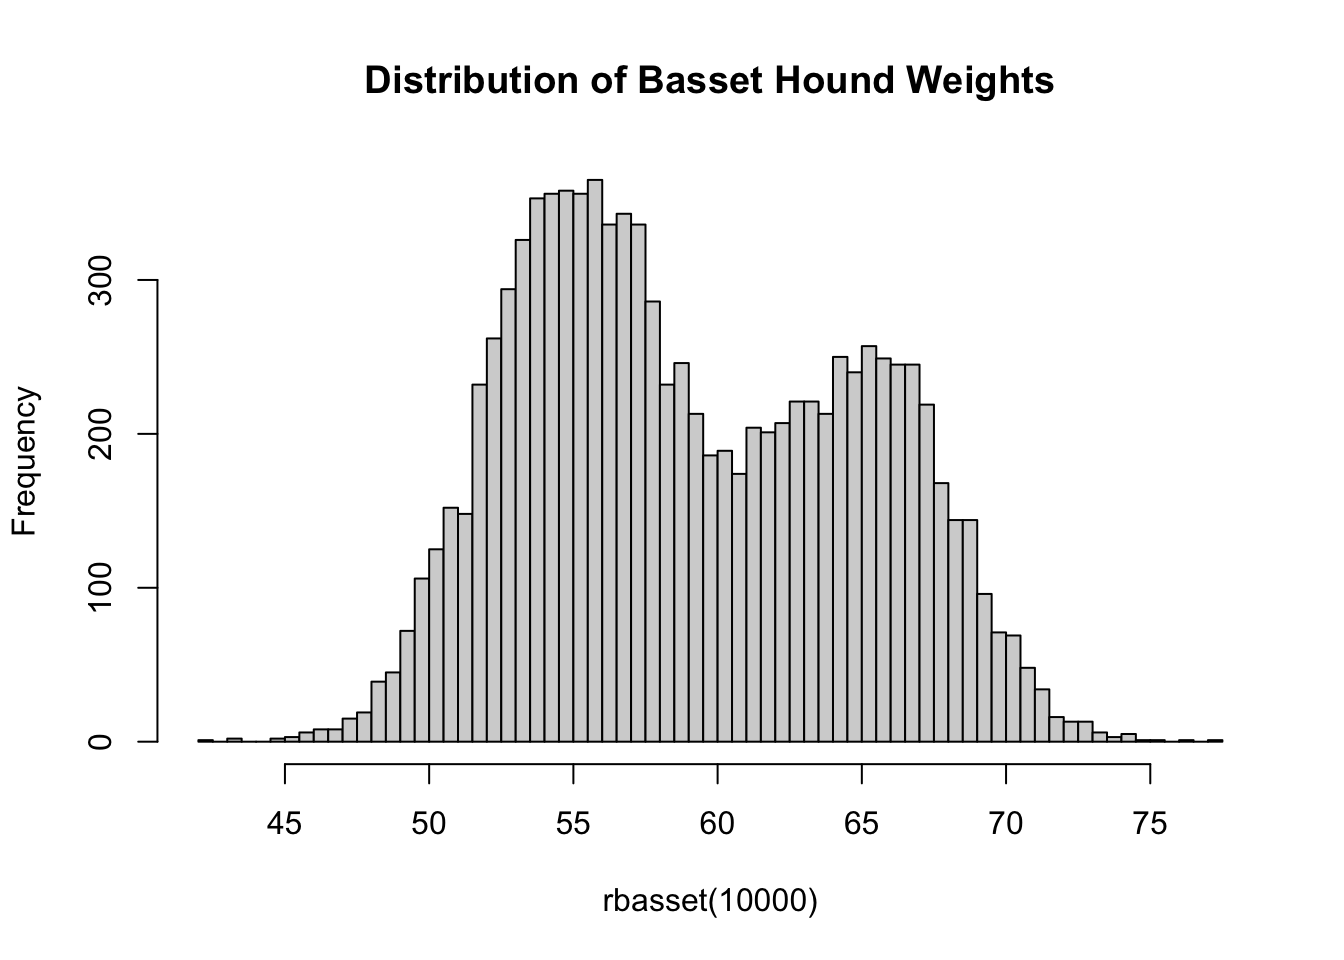
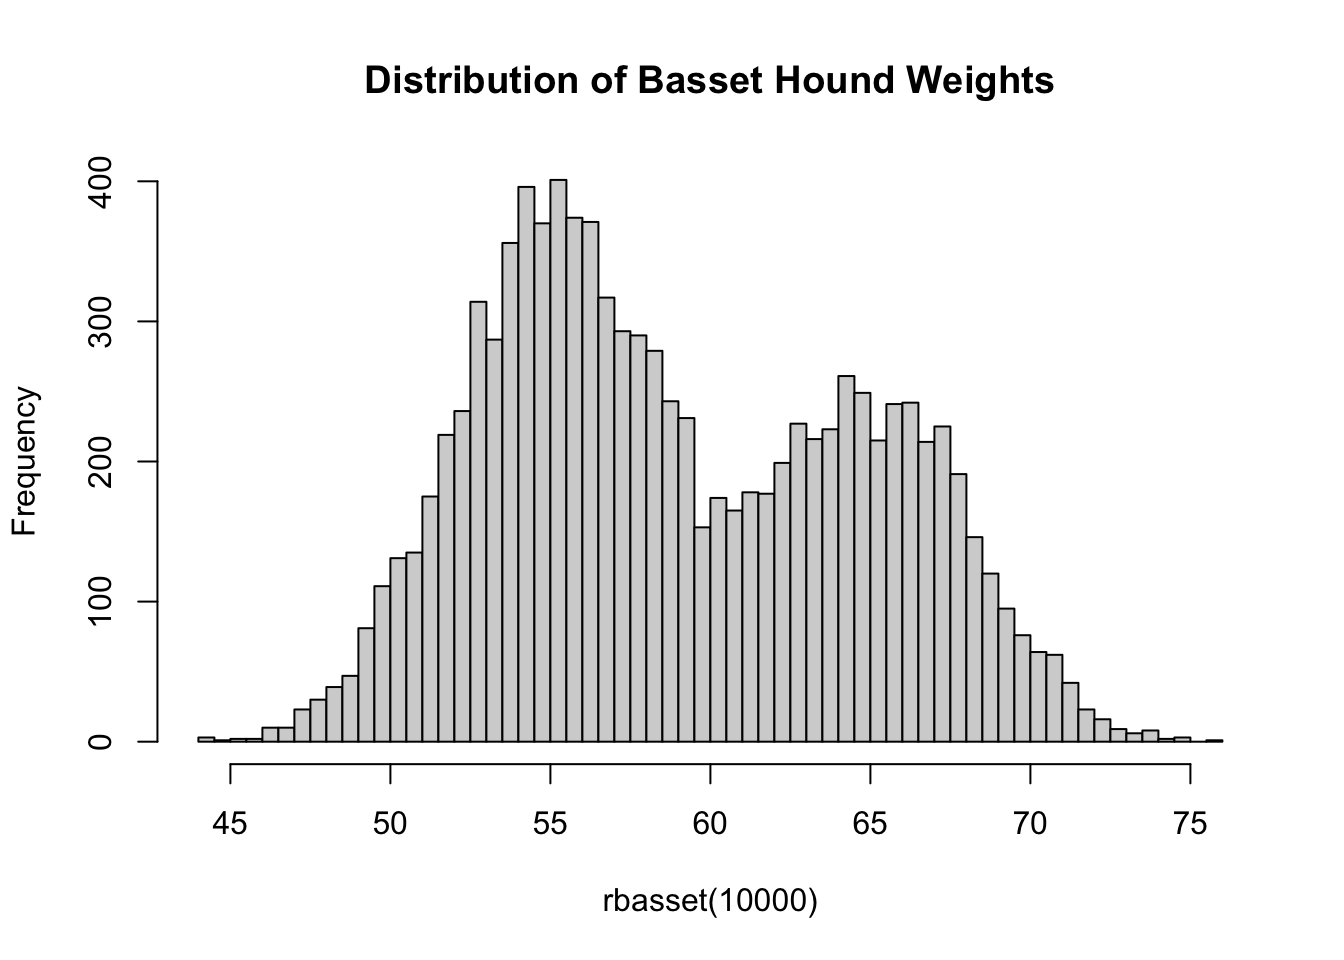
Fix link to test X file

diff --git a/docs/notes/notes06.html b/docs/notes/notes06.html
@@ -194,6 +194,12 @@ window.Quarto = {
   <li><a href="#inference-from-a-mixture-distribution" id="toc-inference-from-a-mixture-distribution" class="nav-link" data-scroll-target="#inference-from-a-mixture-distribution">Inference from a Mixture Distribution</a></li>
   </ul></li>
   <li><a href="#building-generative-classifiers" id="toc-building-generative-classifiers" class="nav-link" data-scroll-target="#building-generative-classifiers">Building Generative Classifiers</a></li>
+  <li><a href="#named-generative-classifiers" id="toc-named-generative-classifiers" class="nav-link" data-scroll-target="#named-generative-classifiers">Named Generative Classifiers</a>
+  <ul class="collapse">
+  <li><a href="#naive-bayes" id="toc-naive-bayes" class="nav-link" data-scroll-target="#naive-bayes">Naive Bayes</a></li>
+  <li><a href="#linear-discriminant-analysis" id="toc-linear-discriminant-analysis" class="nav-link" data-scroll-target="#linear-discriminant-analysis">Linear Discriminant Analysis,</a></li>
+  </ul></li>
+  <li><a href="#a-non-standard-example" id="toc-a-non-standard-example" class="nav-link" data-scroll-target="#a-non-standard-example">A Non-Standard Example</a></li>
   </ul>
 <div class="toc-actions"><ul><li><a href="https://github.com/michaelweylandt/STA9890/edit/main/notes/notes06.qmd" class="toc-action"><i class="bi bi-github"></i>Edit this page</a></li><li><a href="https://github.com/michaelweylandt/STA9890/blob/main/notes/notes06.qmd" class="toc-action"><i class="bi empty"></i>View source</a></li><li><a href="https://github.com/michaelweylandt/STA9890/issues/new" class="toc-action"><i class="bi empty"></i>Report an issue</a></li></ul></div></nav>
     </div>
@@ -219,6 +225,7 @@ window.Quarto = {
 </header>
 
 
+<p><span class="math display">\[\newcommand{\bX}{\mathbf{X}}\newcommand{\bx}{\mathbf{x}}\newcommand{\R}{\mathbb{R}}\newcommand{\P}{\mathbb{P}}\]</span></p>
 <p>This week, we begin our study of classifiers with an analysis of <em>generative</em> classifiers. While many generative classifiers have appeared in the literature, they can essentially all be derived from a standard formula. We will discuss this standard formula first and then turn our attention to specific named instances.</p>
 <section id="mixture-models" class="level2">
 <h2 class="anchored" data-anchor-id="mixture-models">Mixture Models</h2>
@@ -234,7 +241,7 @@ window.Quarto = {
 <span id="cb1-5"><a href="#cb1-5" aria-hidden="true" tabindex="-1"></a>}</span>
 <span id="cb1-6"><a href="#cb1-6" aria-hidden="true" tabindex="-1"></a><span class="fu">rbasset</span>(<span class="dv">1</span>)</span></code><button title="Copy to Clipboard" class="code-copy-button"><i class="bi"></i></button></pre></div>
 <div class="cell-output cell-output-stdout">
-<pre><code>[1] 59.69341</code></pre>
+<pre><code>[1] 67.67984</code></pre>
 </div>
 </div>
 <p>If we collect the weights of many basset hounds, we see that the resulting distribution is not normally distributed:</p>
@@ -257,7 +264,7 @@ window.Quarto = {
 <p>Now suppose you are on a walk and you meet a very friendly 62 pound basset hound. You of course want to pet this marvelous dog, but you need to ask the owner’s permission first: in doing so, should you ask “may I pet him?” or “may I pet her?”</p>
 <p>While the basset hound won’t care if you misgender, you recall that you can use <a href="https://en.wikipedia.org/wiki/Bayes%27_theorem"><em>Bayes’ Rule</em></a> to ‘invert’ the mixture distribution. That is, while the mixture distribution normally goes from sex to weight, Bayes’ rule will let us go from weight back to sex.</p>
 <p>Specifically, in this case, Bayes’ rule tells us:</p>
-<p>[(|) = ]</p>
+<p><span class="math display">\[\P(\text{Female}|\text{Weight=62}) = \frac{\P(\text{Weight=62}|\text{Female})\P(\text{Female})}{\P(\text{Weight=62}|\text{Female})\P(\text{Female}+\P(\text{Weight=62}|\text{Male})\P(\text{Male}))}\]</span></p>
 <p>The math here is a bit nasty numerically, but we can do it in <code>R</code> quite simply:</p>
 <div class="cell">
 <div class="sourceCode cell-code" id="cb4"><pre class="sourceCode r code-with-copy"><code class="sourceCode r"><span id="cb4-1"><a href="#cb4-1" aria-hidden="true" tabindex="-1"></a>p_female <span class="ot">&lt;-</span> <span class="fl">0.6</span></span>
@@ -283,15 +290,51 @@ window.Quarto = {
 <p>Let’s formalize our approach for a two-class classifier though the extension to multi-class is simple enough. Given a training set</p>
 <p><span class="math display">\[\mathcal{D}_{\text{Train}} = \{(\bx_1, y_1), (\bx_2, y_2), \dots, (\bx_n, y_n)\}\]</span></p>
 <p>we assume <span class="math inline">\(\bX\)</span> follows a two-component mixture where <span class="math inline">\(Y\)</span> is the mixing variable:</p>
-<p>[| Y=0 _0 | _1]</p>
+<p><span class="math display">\[\bX | Y=0 \sim \mathcal{P}_0 \text{ and } \bX | Y=1 \sim \mathcal{P}_1\]</span></p>
 <p>Clearly to fully specify this distribution, we need three things:</p>
 <ul>
 <li>To know the distribution of <span class="math inline">\(Y\)</span></li>
 <li>To know the distribution <span class="math inline">\(\mathcal{P}_0\)</span></li>
 <li>To know the distribution <span class="math inline">\(\mathcal{P}_1\)</span></li>
 </ul>
-<p>The distribution of <span class="math inline">\(Y\)</span> is relatively straightforward: since it only takes values <span class="math inline">\(\{0, 1\}\)</span> it <em>must</em> have a Bernoulli distribution and hence the only thing we need to estimate is the probability, <span class="math inline">\(p\)</span>, that <span class="math inline">\(Y=1\)</span>. The simplest approach to estimating the Bernoulli probability is to simply take the empirical probability from the training data set, <em>i.e.</em>, the fraction of observations where <span class="math inline">\(Y=1\)</span>, but this can also be estimated using knowledge of a broader data set or a different population than the training data. For instance, if a data set is known to overindex on <span class="math inline">\(Y=1\)</span>, <em>e.g.</em>, because it contains patients who self-reported some disease, it may be more appropriate to estimate <span class="math inline">\(p\)</span> based on the population-wide prevalance of the disease. These concerns are typically rather problem specific.</p>
-<p>Estimation of <span class="math inline">\(\mathcal{P}_0, \mathcal{P}_1\)</span> may be more difficult. If the training data is <em>extremely</em> large,</p>
+<p>The distribution of <span class="math inline">\(Y\)</span> is relatively straightforward: since it only takes values <span class="math inline">\(\{0, 1\}\)</span> it <em>must</em> have a Bernoulli distribution and hence the only thing we need to estimate is the probability, <span class="math inline">\(\pi_1\)</span>, that <span class="math inline">\(Y=1\)</span>. The simplest approach to estimating the Bernoulli probability is to simply take the empirical probability from the training data set, <em>i.e.</em>, the fraction of observations where <span class="math inline">\(Y=1\)</span>, but this can also be estimated using knowledge of a broader data set or a different population than the training data. For instance, if a data set is known to overindex on <span class="math inline">\(Y=1\)</span>, <em>e.g.</em>, because it contains patients who self-reported some disease, it may be more appropriate to estimate <span class="math inline">\(p\)</span> based on the population-wide prevalance of the disease. These concerns are typically rather problem specific.</p>
+<p>Estimation of <span class="math inline">\(\mathcal{P}_0, \mathcal{P}_1\)</span> may be more difficult. If the training data is <em>extremely</em> large, we may use a <em>non-parametric</em> estimator, <em>e.g.</em>, a multivariate histogram, but in general we will need to use some sort of restrictive (parametric) model. The most commonly used generative classifiers assume some sort of multivariate normal structure, but you can create ‘custom’ classifiers appropriate to specific domains.</p>
+<p>For now, let us assume <span class="math inline">\(\mathcal{P}_{0}, \mathcal{P}_1\)</span> have been estimated and that they have PDFs <span class="math inline">\(p_0(\cdot), p_1(\cdot)\)</span>. Applying Bayes’ rule as before, with prior (baseline) probabilities <span class="math inline">\(\pi_0, \pi_1 = 1-\pi_0\)</span>, we get the following probabilities</p>
+<p><span class="math display">\[\begin{align*}
+\P(Y = 1 | \bx) &amp;= \frac{\P(\bx | Y = 1)\P(Y=1)}{\P(\bx | Y = 0)\P(Y=0)+\P(\bx | Y = 1)\P(Y=1)} \\
+&amp;= \frac{p_1(\bx)\pi_1}{p_0(\bx)\pi_0 + p_1(\bx)\pi_1}
+\end{align*}\]</span></p>
+<p>If we are happy with a <em>probabilistic</em> classifier, we are essentially done. If we want a true binary classifier, <em>i.e.</em>, a <span class="math inline">\(\{0, 1\}\)</span> valued ‘point predictor’, we also need to set a classification threshold, <span class="math inline">\(\overline{p}\)</span>, to obtain:</p>
+<p><span class="math display">\[\delta(\bx) = \begin{cases} 0 &amp; \frac{p_1(\bx)\pi_1}{p_0(\bx)\pi_0 + p_1(\bx)\pi_1} &lt; \overline{p} \\ 1 &amp; \text{ otherwise} \end{cases}\]</span></p>
+<p><span class="math inline">\(\overline{p}\)</span> can be chosen to optimize a relevant performance metric (if you practice good sample splitting hygiene) or via a full decision theoretic analysis, as discussed last week.</p>
+<p>That’s basically it!</p>
+</section>
+<section id="named-generative-classifiers" class="level2">
+<h2 class="anchored" data-anchor-id="named-generative-classifiers">Named Generative Classifiers</h2>
+<p>As mentioned above, the ‘popular’ generative classifiers are essentially defined by specific multivariate normality assumptions on <span class="math inline">\(\mathcal{P}_0, \mathcal{P}_1\)</span>. Let us review these in ascending order of complexity.</p>
+<p>Recall that a multivariate normal distribution is uniquely identified by its <em>mean</em> and <em>(co)variance (matrix)</em>, just like a standard univariate normal distribution. When estimating means, we will simply use the class means for each classifier, though James-Stein time estimators could be used for a (likely imperceptible) improvement. Estimation of variances is a harder task: to estimate the full covariance matrix of <span class="math inline">\(p\)</span> random variables (or a random <span class="math inline">\(p\)</span>-vector), we must estimate:</p>
+<ol type="i">
+<li><span class="math inline">\(p\)</span> (marginal) variances and <span class="math inline">\(\frac{p^2-3p}{2}\)</span> correlations; or</li>
+<li><span class="math inline">\(\binom{p}{2} = \frac{p(p-1)}{2}\)</span> covariances</li>
+</ol>
+<p>Making this even harder, we have to deal with the fact that the “variance of the variance”, <em>i.e.</em>, the kurtosis, is typically quite large. While we do not focus on high-dimensional covariance estimation in these notes, it is quite a rich subject: if you want dig further into it, the <a href="http://www.ledoit.net/honey.pdf">Ledoit-Wolf</a> estimator is a good place to start.</p>
+<section id="naive-bayes" class="level3">
+<h3 class="anchored" data-anchor-id="naive-bayes">Naive Bayes</h3>
+<p>In Naive Bayes, we assume <span class="math inline">\(\mathcal{P}_0, \mathcal{P}_1\)</span> are multivariate normal distributions with no correlation among the features and a common covariance across classes.<a href="#fn2" class="footnote-ref" id="fnref2" role="doc-noteref"><sup>2</sup></a> This <em>significantly</em> simplifies the covariance estimation problem, since we now have all <span class="math inline">\(n\)</span> samples available to estimate only <span class="math inline">\(p\)</span> variances. Our estimates are given as follows:</p>
+<p><span class="math display">\[\hat{\mu}_0 = \frac{1}{|\mathcal{C}_0|} \sum_{i \in \mathcal{C}_0} \bx_i\]</span></p>
+<p>where <span class="math inline">\(\mathcal{C}_0\)</span> is the set of observations from class 0 and</p>
+<p><span class="math display">\[\hat{\mu}_1 = \frac{1}{|\mathcal{C}_1|} \sum_{i \in \mathcal{C}_1} \bx_i.\]</span> The variance estimates are a bit trickier:</p>
+<p><span class="math display">\[\hat{\Sigma}_{ii} = \frac{1}{n}\left(\sum_{j\in\mathcal{C}_0} (x_{ji} - \hat{\mu}_{0i})^2 + \sum_{j\in\mathcal{C}_1} (x_{ji} - \hat{\mu}_{1i})^2\right)\]</span> This looks a bit nasty, but it’s not too hard: we take the standard ‘average squared difference’ estimator of the variance, but instead of using the overall mean, we subtract the estimated mean from the relevant class. Note that here we are only estimating <span class="math inline">\(\Sigma_{ii}\)</span>, the diagonal elements, and not a full matrix <span class="math inline">\(\Sigma\)</span>.</p>
+<p>Naive Bayes classifiers are particularly important to the history of ML as they were used for one of the first and most influential spam filters.</p>
+</section>
+<section id="linear-discriminant-analysis" class="level3">
+<h3 class="anchored" data-anchor-id="linear-discriminant-analysis">Linear Discriminant Analysis,</h3>
+<p>Generalizing a bit, we can relax the assumption that the covariance matrix <span class="math inline">\(\Sigma\)</span> is diagonal and only assume that it is constant across the two classes. Here,</p>
+</section>
+</section>
+<section id="a-non-standard-example" class="level2">
+<h2 class="anchored" data-anchor-id="a-non-standard-example">A Non-Standard Example</h2>
+<p>Suppose we have</p>
 
 
 </section>
@@ -301,6 +344,7 @@ window.Quarto = {
 
 <ol>
 <li id="fn1"><p>Note that a mixture of normals is not <em>always</em> multimodal (<em>e.g.</em>, if the two means are very close together), but a mixture of normals is a common model for multimodal data.<a href="#fnref1" class="footnote-back" role="doc-backlink">↩︎</a></p></li>
+<li id="fn2"><p>Sometimes, we go further and assume the standard deviations of each feature are the same: this assumption is typically not made explicitly as such but is done ‘off-camera’ by pre-standardizing features.)<a href="#fnref2" class="footnote-back" role="doc-backlink">↩︎</a></p></li>
 </ol>
 </section></div></main> <!-- /main -->
 <script id="quarto-html-after-body" type="application/javascript">

diff --git a/docs/competition.html b/docs/competition.html
@@ -261,7 +261,7 @@ Use only Provided Information
 <li><a href="./competition_data/building_details_2018.csv.gz"><code>building_details_2018.csv</code></a>: Details of the relevant properties in 2018</li>
 <li><a href="./competition_data/building_details_2019.csv.gz"><code>building_details_2019.csv</code></a>: Details of the relevant properties in 2019</li>
 <li><a href="./competition_data/assessment_history_train.csv.gz"><code>assessment_history_train.csv</code></a>: A subset of realized assessments from 2015 to 2019, along with some additional useful information</li>
-<li><a href="./competition_data/assessment_history_test.csv"><code>assessment_history_test.csv</code></a>: A subset of realized assessments from 2015 to 2018. <strong>Your task is to predict the 2019 assessments for these properties.</strong></li>
+<li><a href="./competition_data/assessment_history_test.csv.gz"><code>assessment_history_test.csv</code></a>: A subset of realized assessments from 2015 to 2018. <strong>Your task is to predict the 2019 assessments for these properties.</strong></li>
 </ul>
 <p>Let us review these in some detail:</p>
 <div class="cell">
@@ -300,7 +300,7 @@ $ year                &lt;dbl&gt; 2015, 2015, 2015, 2015, 2015, 2015, 2015, 2015
 </div>
 </div>
 <p>Features here are generally self-explanatory with the exception of <code>acct</code>, a unique identifier I have created to identify assessment parcels. You will use this as the “key” to identify your predictions.</p>
-<p>Note that these data are obtained from government records and are likely full of errors and irregularities (<em>e.g.</em>, the <code>year_remodeled</code> column has many zeros); part of your task is to deal with this messiness in building your ML pipeline.</p>
+<p>Note that these data are obtained from government records and are likely full of errors and irregularities (<em>e.g.</em>, the <code>year_remodeled</code> column has many zeros); part of your task is to deal with this messiness in building your ML pipeline. I will not further clean or prepare this data for you.</p>
 <p>The training file looks like:</p>
 <div class="cell">
 <div class="sourceCode cell-code" id="cb3"><pre class="sourceCode r code-with-copy"><code class="sourceCode r"><span id="cb3-1"><a href="#cb3-1" aria-hidden="true" tabindex="-1"></a><span class="fu">library</span>(readr); <span class="fu">library</span>(dplyr)</span>
@@ -394,7 +394,7 @@ $ neighborhood        &lt;chr&gt; "6315b211033894c97f758c5b2d0e53a00ca66f81", "6
 </section>
 <section id="prediction-accuracy-100-points" class="level2">
 <h2 class="anchored" data-anchor-id="prediction-accuracy-100-points">Prediction Accuracy (100 Points)</h2>
-<p>Prediction accuracy will be assessed using <em>Kaggle Competitions</em>. I have provided Kaggle with a private test set on which your predictions will be evaluated. Kaggle will further divide the test set into a <em>public leaderboard</em> and a <em>private leaderboard</em>. You will be able to see your accuracy on the public leaderboard but final scores will be based on <em>private leaderboard</em> accuracy so don’t overfit.</p>
+<p>Prediction accuracy will be assessed using <em>Kaggle Competitions</em>. I have provided Kaggle with a private test set on which your predictions will be evaluated. Kaggle will further divide the test set into a <em>public leaderboard</em> and a <em>private leaderboard</em>. You will be able to see your accuracy on the public leaderboard but final scores will be based on <em>private leaderboard</em> accuracy so <em>don’t overfit</em>.</p>
 <p>Grades for this portion will be assigned as:</p>
 <p><span class="math display">\[\text{Grade} = 1 - \frac{\text{Class Best MSE}}{\text{Constant MSE}}\]</span></p>
 <p>That is, your grade will essentially be a ‘rescaled’ <span class="math inline">\(R^2\)</span> where the best performance in the class is 100% and everyone else is somefraction thereof. (Note that this means the top performance automatically gets 100% on this component.)</p>